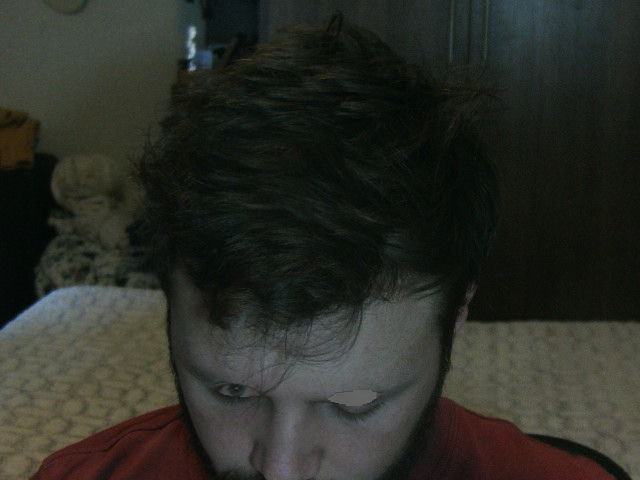
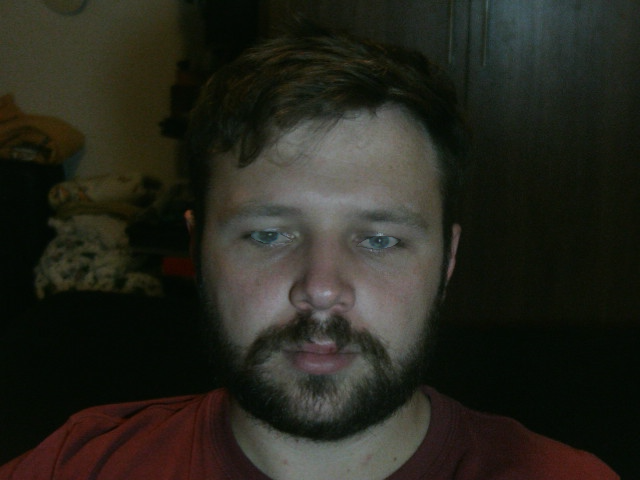
WORKING GREAT!

diff --git a/modules/eyes.py b/modules/eyes.py
@@ -38,7 +38,7 @@ class Eyes:
             self.offset_y = 20 # 18  For Laptop ---> Offset to move the bounding box up
 
             self.left_eye_offset_x = -5  # Offset to move the left eye bounding box left/right
-            self.left_eye_offset_y = 0  # Offset to move the left eye bounding box up/down
+            self.left_eye_offset_y = 3  # Offset to move the left eye bounding box up/down
 
             self.right_eye_offset_x = 10  # Offset to move the right eye bounding box left/right
             self.right_eye_offset_y = 0  # Offset to move the right eye bounding box up/down
@@ -149,7 +149,7 @@ class Eyes:
 
         print('Y-DIFF: ', y_diff)
         # Is Looking UP ?
-        if y_diff <= 0:
+        if y_diff <= -3:
             x_diff = right_pupil_center[0] - right_eye_landmarks[4][0]
             print('X-DIFF: ', x_diff)
 
@@ -475,20 +475,32 @@ class Eyes:
 
                             def _extract_eye_region_with_alpha(frame, eye_points):
                                 height, width = frame.shape[:2]
+    
+                                # Create mask for the eye region
                                 mask = np.zeros((height, width), dtype=np.uint8)
                                 cv2.fillPoly(mask, [np.array(eye_points)], 255)
-
-                                # Extract eye region with mask
-                                eye_region = cv2.bitwise_and(frame, frame, mask=mask)
                                 
-                                # Crop the eye region based on mask
+                                # Crop the eye region based on bounding box around eye points
                                 x, y, w, h = cv2.boundingRect(np.array(eye_points))
-                                eye_crop = eye_region[y:y+h, x:x+w]
                                 mask_crop = mask[y:y+h, x:x+w]
+                                eye_crop = frame[y:y+h, x:x+w]
 
-                                # Add an alpha channel
+                                # Create distance transform to calculate distances from edge inward
+                                gradient_mask = cv2.distanceTransform(255 - mask_crop, cv2.DIST_L2, 5)
+                                gradient_mask = cv2.normalize(gradient_mask, None, 0, 255, cv2.NORM_MINMAX).astype(np.uint8)
+
+                                # Stronger fade scaling to enhance the inward fade effect
+                                fade_mask = cv2.subtract(255, gradient_mask)
+                                fade_mask = np.clip(fade_mask * 2, 0, 255).astype(np.uint8)  # Further increase fade intensity
+
+                                # Apply an even larger Gaussian blur for a softer, more extended fade
+                                fade_mask = cv2.GaussianBlur(fade_mask, (31, 31), 0)
+                                fade_mask = np.where(mask_crop == 255, fade_mask, 0)  # Ensure fade stays within the eye contour
+
+                                # Apply the fade mask as the alpha channel
                                 eye_with_alpha = cv2.cvtColor(eye_crop, cv2.COLOR_BGR2BGRA)
-                                eye_with_alpha[:, :, 3] = mask_crop  # Set alpha channel based on mask
+                                eye_with_alpha[:, :, 3] = fade_mask  # Set the alpha with extended fade
+
                                 
                                 return eye_with_alpha, (x, y, w, h)
 

diff --git a/insert_eyes.py b/insert_eyes.py
@@ -12,20 +12,32 @@ right_eye_landmarks = [384, 385, 386, 387, 388, 466, 263, 249, 390, 373, 374, 38
 
 def _extract_eye_region_with_alpha(frame, eye_points):
     height, width = frame.shape[:2]
+    
+    # Create mask for the eye region
     mask = np.zeros((height, width), dtype=np.uint8)
     cv2.fillPoly(mask, [np.array(eye_points)], 255)
-
-    # Extract eye region with mask
-    eye_region = cv2.bitwise_and(frame, frame, mask=mask)
     
-    # Crop the eye region based on mask
+    # Crop the eye region based on bounding box around eye points
     x, y, w, h = cv2.boundingRect(np.array(eye_points))
-    eye_crop = eye_region[y:y+h, x:x+w]
     mask_crop = mask[y:y+h, x:x+w]
+    eye_crop = frame[y:y+h, x:x+w]
 
-    # Add an alpha channel
+    # Create distance transform to calculate distances from edge inward
+    gradient_mask = cv2.distanceTransform(255 - mask_crop, cv2.DIST_L2, 5)
+    gradient_mask = cv2.normalize(gradient_mask, None, 0, 255, cv2.NORM_MINMAX).astype(np.uint8)
+
+    # Stronger fade scaling to enhance the inward fade effect
+    fade_mask = cv2.subtract(255, gradient_mask)
+    fade_mask = np.clip(fade_mask * 2, 0, 255).astype(np.uint8)  # Further increase fade intensity
+
+    # Apply an even larger Gaussian blur for a softer, more extended fade
+    fade_mask = cv2.GaussianBlur(fade_mask, (31, 31), 0)
+    fade_mask = np.where(mask_crop == 255, fade_mask, 0)  # Ensure fade stays within the eye contour
+
+    # Apply the fade mask as the alpha channel
     eye_with_alpha = cv2.cvtColor(eye_crop, cv2.COLOR_BGR2BGRA)
-    eye_with_alpha[:, :, 3] = mask_crop  # Set alpha channel based on mask
+    eye_with_alpha[:, :, 3] = fade_mask  # Set the alpha with extended fade
+
     
     return eye_with_alpha, (x, y, w, h)
 
